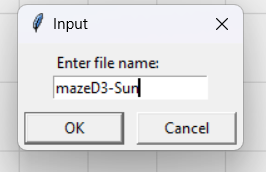
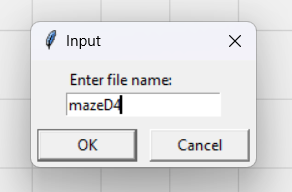
finish readme for HW2 submission

Changed region(s): [[0.0, 0.0, 1.0, 1.0], [0.1805, 0.3198, 0.782, 0.6105], [0.6015, 0.6977, 0.812, 0.7849]]

diff --git a/Wells_Steven_HW_2/README.md b/Wells_Steven_HW_2/README.md
@@ -5,6 +5,8 @@
 
 For this assignment, I chose the number-maze; the type of maze where it is very similar to your average maze, but with some numbered cells. To solve the maze, you need to pass through every one of the numbered cells in order before you reach the end square.
 
+![](readme/numbered-maze.png)
+
 ## Files in Submission
 
 This submission contains two python files: 'maze.py' and 'guiMazeCreator.py'. 
@@ -27,13 +29,13 @@ When you are loading one of these mazes, you have two options to do so. One opti
 ```
 py guiMazeCreator.py
 ```
-and then hit the 'Load from file' button, and then enter the maze file's name. For instance, to load mazeD3-Sun, you would just type 'mazeD3-Sun' into this box:
+and then hit the 'Load from file' button, and then enter the maze file's name. For instance, to load mazeD4, you would just type 'mazeD4' into this box:
 
 ![](readme/load_button.png)
  
-You can also load mazes by passing them as an argument when launching the guiMazeCreator. For instance, to load 'mazeD3-Sun', you would launch the guiMazeCreator.py program like this:
+You can also load mazes by passing them as an argument when launching the guiMazeCreator. For instance, to load 'mazeD4', you would launch the guiMazeCreator.py program like this:
 ```
-py guiMazeCreator.py -f mazeD3-Sun
+py guiMazeCreator.py -f mazeD4
 ```
 
 ## Using solver algorithms
@@ -44,7 +46,7 @@ Once you have a maze loaded in the gui editor that is valid (has a start and end
 
 doing so will activate the correlating solver algorithm (located in maze.py), and then will pass the solution it has found back to the gui program, which will draw that solution with a blue line, like this:
 
-![](readme/mazeD3-Sun-solution.png)
+![](readme/mazeD4-solution.png)
 
 ## Included maze files
 
@@ -52,7 +54,7 @@ Included are several maze files:
 
 - maze00
 
-this is the maze that was included in the packet we received on the day we went over many different maze types. I thought I would include it because it was the first maze that I tested my solving algorithms on
+this is the maze that was included in the packet we received on the day we went over many different maze types. I thought I would include it because it was the first maze that I tested my solving algorithms on.
 
 - mazeD1
 - mazeD2
@@ -61,7 +63,7 @@ this is the maze that was included in the packet we received on the day we went 
 - mazeS1
 - mazeS2
 
-the rest of these mazes are ones that I have created, the ones like 'mazeD' are bigger mazes in 15x12 space, and the ones like 'mazeS' are smaller mazes, one of which is 7x7 and the other is 8x8
+the rest of these mazes are ones that I have created, the ones like 'mazeD' are bigger mazes in 15x12 space, and the ones like 'mazeS' are smaller mazes, one of which is 7x7 and the other is 8x8.
 
 ## Solving algorithms
 
@@ -83,4 +85,4 @@ So, if the last number we have passed is a 1, and there is a 2 cell in the maze,
 
 My thought process here was that whenever I am solving a maze like this, when I make a turn I try to go in the direction of the next numbered cell that I need. So if the most recent number I touched was 1, I will make my turns to try to get to the number 2. That is the modification I made to my solve_dfs method in order to make it more human-like. 
 
-Changing the algorithm like this has some interesting results - I added functionality to record the number of iterations
+Changing the algorithm like this has some interesting results - I added functionality to record the number of iterations whenever you try a certain algorithm, and it showed that some mazes were solved much quicker by solve_human_search. For example, maze00 was solved ~2.5x faster by solve_human_search than solve_dfs. However, some mazes took much longer for solve_human_search. One example is mazeD5, which took twice as long for solve_human_search to solve than regular solve_dfs.
